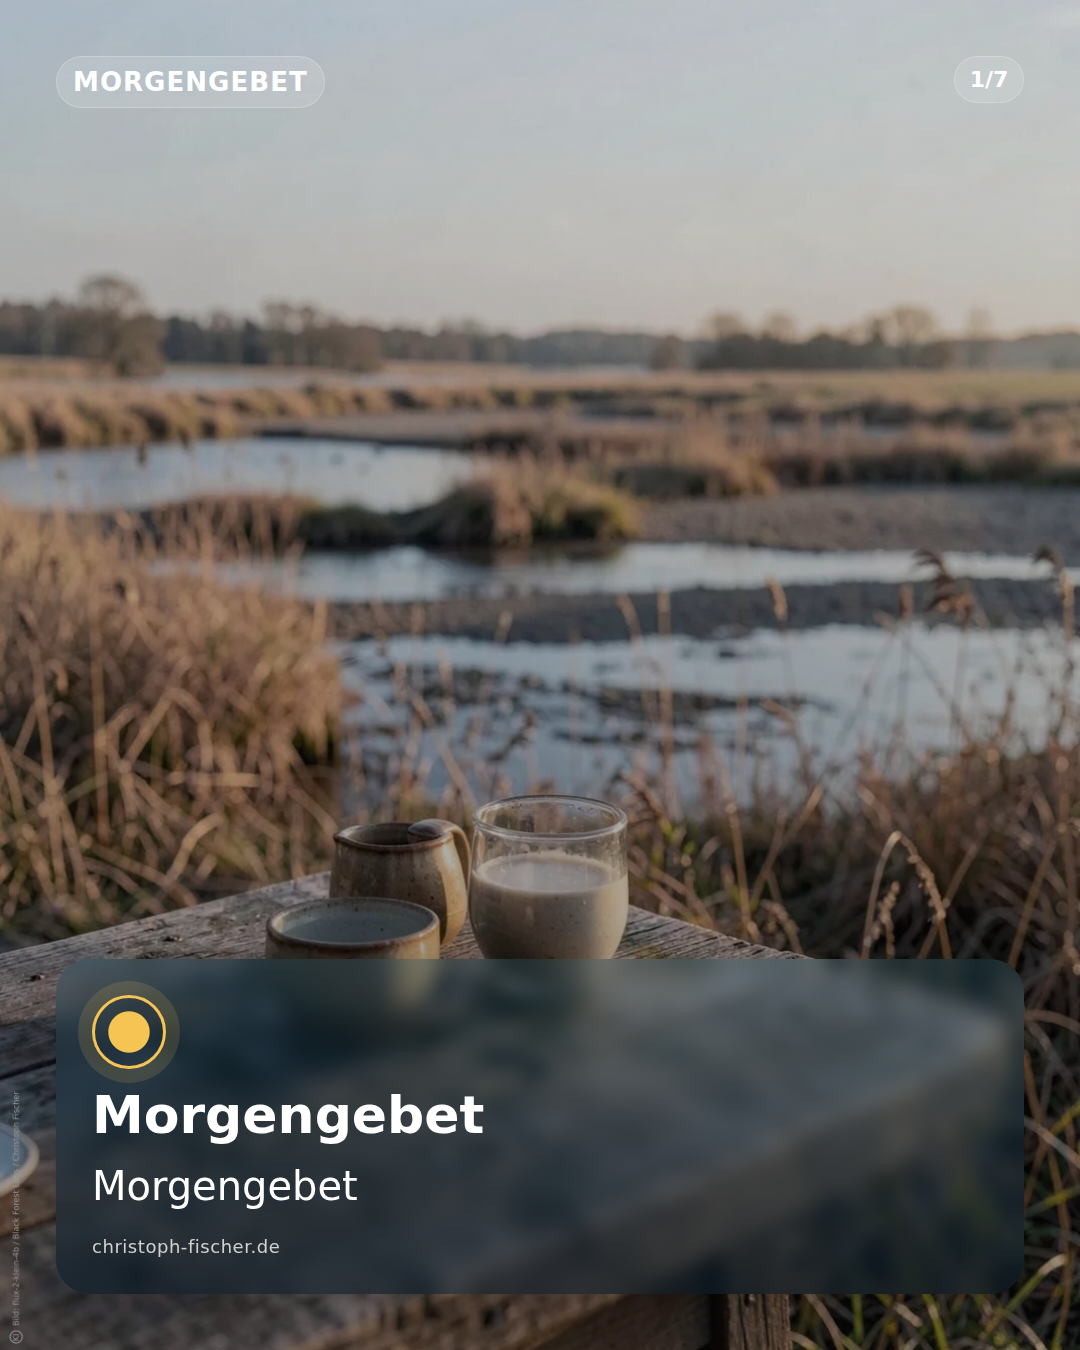
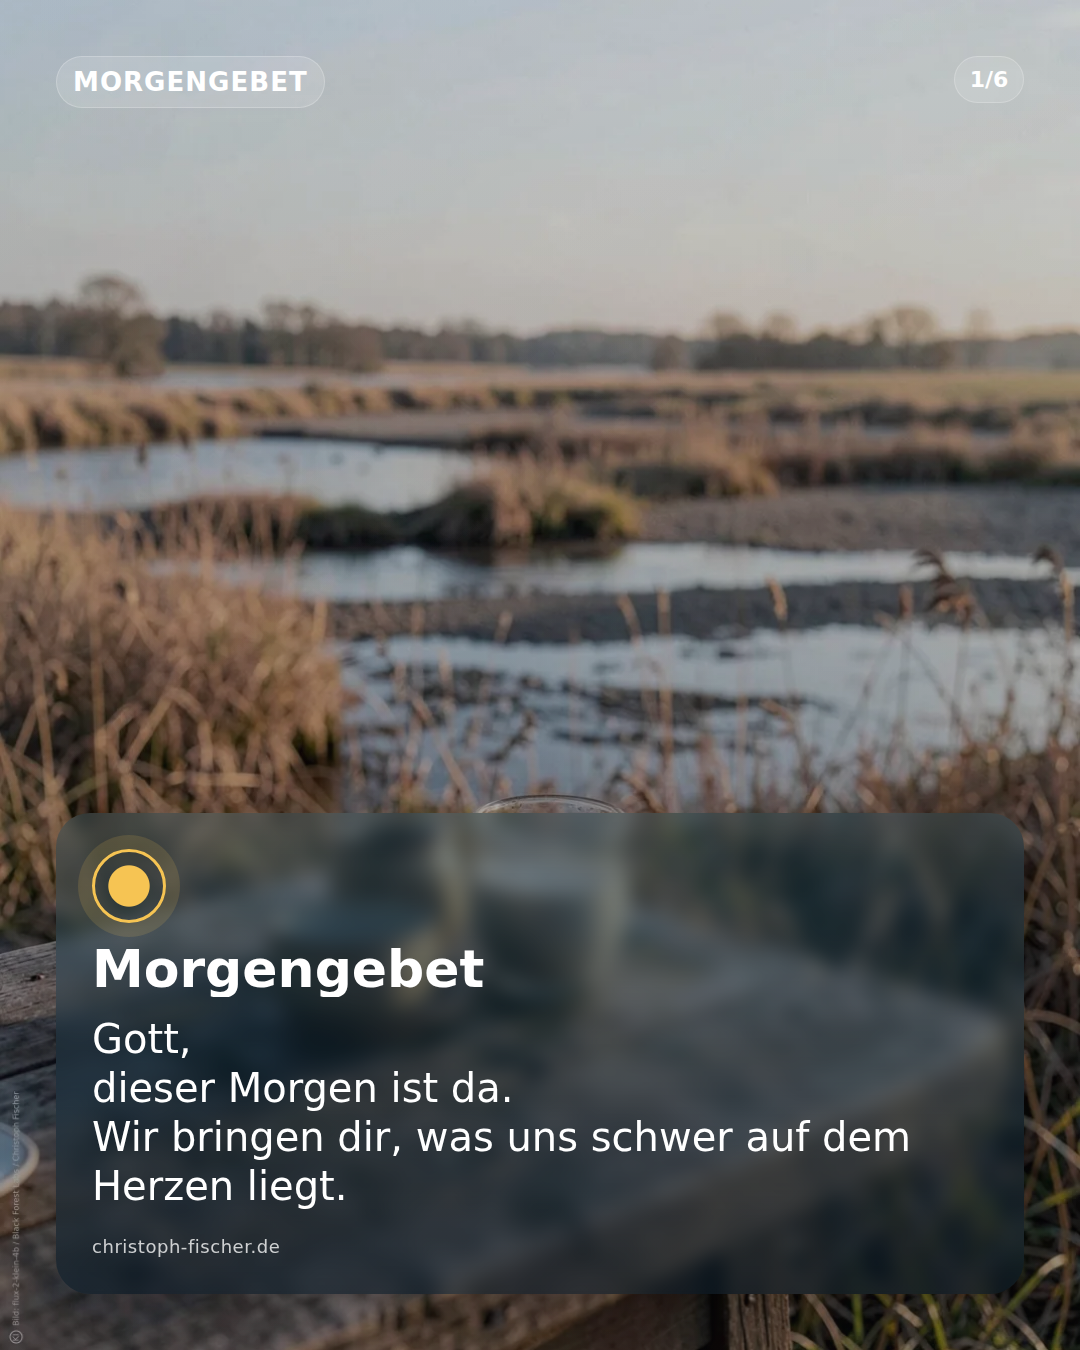
Update content: GET /files/2026-08-17/prayer-morning-2026-08-17/render-instagram-feed-02.png

Changed region(s): [[0.0306, 0.5911, 0.9472, 0.9022], [0.7639, 0.84, 0.825, 0.8711], [0.7028, 0.84, 0.7333, 0.8711]]

diff --git a/2026-08-17/prayer-morning-2026-08-17/render-instagram-feed-02.html b/2026-08-17/prayer-morning-2026-08-17/render-instagram-feed-02.html
@@ -355,13 +355,13 @@
       <section class="layout">
         <div class="panel-meta">
           <div class="eyebrow">Morgengebet</div>
-          <div class="pager">2/7</div>
+          <div class="pager">2/6</div>
         </div>
         <section class="panel prayer-panel">
   <div class="prayer-symbol prayer-symbol-morning" aria-hidden="true"></div>
-  <p class="body-text" data-overflow-id="primary-text">Gott,
-dieser Morgen ist da.
-Wir bringen dir, was uns schwer auf dem Herzen liegt.</p>
+  <p class="body-text" data-overflow-id="primary-text">Wir denken an die Menschen in der Ukraine.
+An zerstörte Wohnungen.
+An Familien und Rettungskräfte zwischen Trümmern.</p>
   <p class="sender-mark">christoph-fischer.de</p>
 </section>
 
